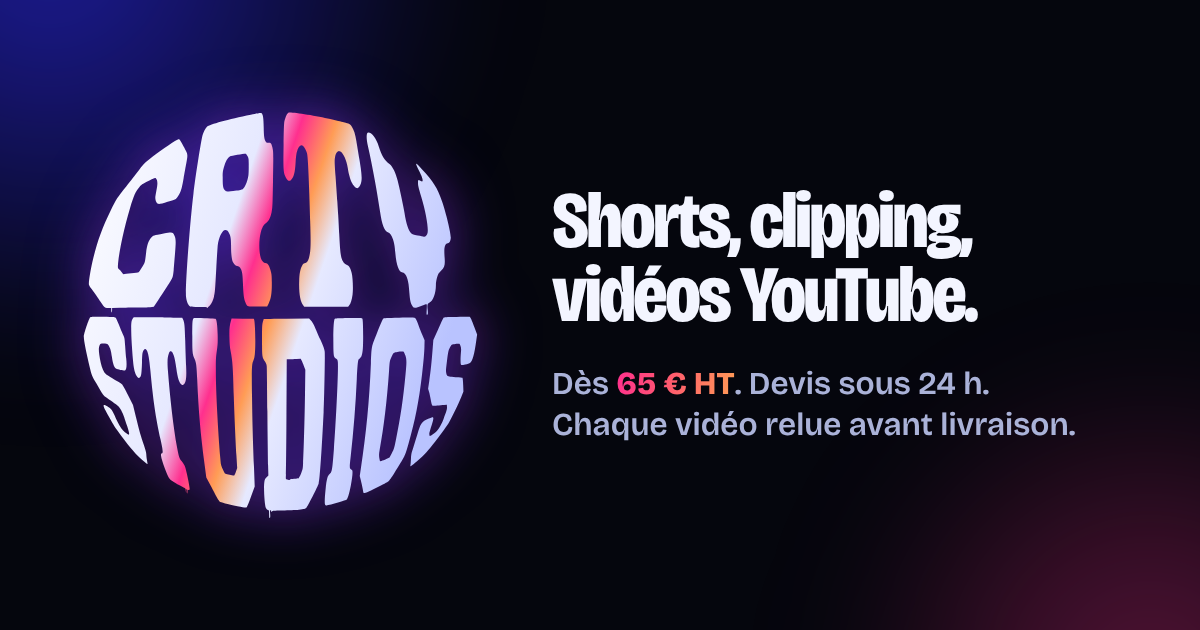
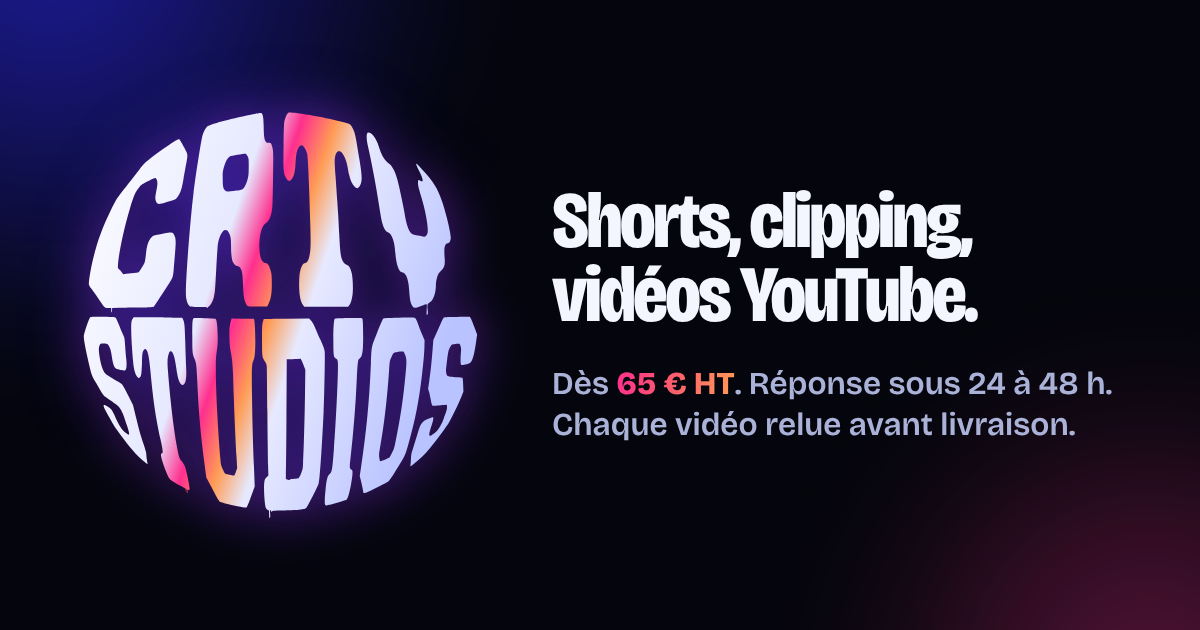
Retouches série 2 : offre graphisme, conditions de paiement, réponse sous 24 à 48 h
- Sur-titre « Offres », mention « tarif dégressif » retirée
- Sur mesure : Vidéo YouTube, Graphisme (logo, miniatures, photo, affiches, PLV, covers),
  Formats longs et tournages ; devis sous 48 h
- Bloc conditions : livrés clé en main, paiement selon l'offre, réponse sous 24 à 48 h
- Délai harmonisé sur tout le site, image de partage et formulaire

Claude-Session: https://claude.ai/code/session_012a9TszCkiZAstSt5BcjDuM

Changed region(s): [[0.6167, 0.573, 0.925, 0.6333]]

diff --git a/public/index.html b/public/index.html
@@ -4,7 +4,7 @@
 <meta charset="utf-8">
 <meta name="viewport" content="width=device-width, initial-scale=1, viewport-fit=cover">
 <title>CRTV Studios — Production vidéo pour créateurs, streamers et marques</title>
-<meta name="description" content="CRTV Studios produit vos shorts, clips de streams et vidéos YouTube. Offres jeunes créateurs dès 65 € HT, packs de clipping, projets sur mesure. Devis sous 24 h.">
+<meta name="description" content="CRTV Studios produit vos shorts, clips de streams et vidéos YouTube. Offres jeunes créateurs dès 65 € HT, packs de clipping, projets sur mesure. Réponse sous 24 à 48 h.">
 <meta name="theme-color" content="#05060d">
 <!-- TODO domaine : remplacer https://crtvstudios.fr par le domaine réservé (ici, sitemap.xml, robots.txt, pages légales) -->
 <link rel="canonical" href="https://crtvstudios.fr/">
@@ -14,7 +14,7 @@
 <meta property="og:site_name" content="CRTV Studios">
 <meta property="og:url" content="https://crtvstudios.fr/">
 <meta property="og:title" content="CRTV Studios — Production vidéo">
-<meta property="og:description" content="Shorts, clipping et vidéos YouTube. Dès 65 € HT, devis sous 24 h, chaque vidéo relue avant livraison.">
+<meta property="og:description" content="Shorts, clipping et vidéos YouTube. Dès 65 € HT, réponse sous 24 à 48 h, chaque vidéo relue avant livraison.">
 <meta property="og:image" content="https://crtvstudios.fr/assets/og-image.png">
 <meta property="og:image:width" content="1200">
 <meta property="og:image:height" content="630">
@@ -93,7 +93,7 @@
         </div>
         <ul class="facts">
           <li>Dès <strong>65&nbsp;€&nbsp;HT</strong></li>
-          <li>Devis sous <strong>24&nbsp;h</strong></li>
+          <li>Réponse sous <strong>24 à 48&nbsp;h</strong></li>
           <li>France, Suisse, Belgique</li>
         </ul>
       </div>
@@ -116,7 +116,7 @@
   <section class="offers" id="offres" aria-labelledby="offres-titre">
     <div class="wrap">
       <div class="sec-head reveal">
-        <p class="eyebrow">Offres et prix</p>
+        <p class="eyebrow">Offres</p>
         <h2 id="offres-titre">Nous nous adaptons à vous.</h2>
         <p>Nous proposons des offres adaptées aux jeunes créateurs et aux professionnels en développement, ainsi que des devis sur mesure pour des besoins précis et des projets d'envergure.</p>
       </div>
@@ -183,7 +183,7 @@
             <a class="choose" href="#devis" data-offre="clipping-15">Choisir Clipping 15 <span aria-hidden="true">→</span></a>
           </li>
           <li class="card featured reveal" data-d="1">
-            <span class="tag">30 clips · tarif dégressif</span>
+            <span class="tag">30 clips</span>
             <span class="name">Clipping 30</span>
             <span class="price fire-text">520&nbsp;€<span class="ht">HT</span></span>
             <ul class="incl">
@@ -201,7 +201,7 @@
       <div class="volet" id="sur-mesure">
         <div class="volet-head reveal">
           <div class="volet-title"><h3>Projets sur mesure</h3></div>
-          <p>Vidéos longues, collaborations publicitaires et contenus d'envergure. Un devis adapté à votre projet et à votre budget, sous 24&nbsp;h.</p>
+          <p>Formats longs, tournages et contenus d'envergure. Un devis adapté à votre projet et à votre budget, sous 48&nbsp;h.</p>
         </div>
         <ul class="cards c3">
           <li class="card reveal">
@@ -211,25 +211,29 @@
             <a class="choose" href="#devis" data-offre="youtube">Choisir Vidéo YouTube <span aria-hidden="true">→</span></a>
           </li>
           <li class="card reveal" data-d="1">
-            <span class="name">Collaboration publicitaire</span>
+            <span class="name">Graphisme</span>
             <span class="price fire-text">Sur devis</span>
-            <p class="desc">Film publicitaire court, clé en main, pour une marque ou un commerce.</p>
-            <a class="choose" href="#devis" data-offre="sur-mesure">Parler de votre projet <span aria-hidden="true">→</span></a>
+            <ul class="incl">
+              <li>Logo</li>
+              <li>Miniatures YouTube</li>
+              <li>Shooting photo</li>
+              <li>Affiches, PLV et covers</li>
+            </ul>
+            <a class="choose" href="#devis" data-offre="graphisme">Choisir Graphisme <span aria-hidden="true">→</span></a>
           </li>
           <li class="card reveal" data-d="2">
-            <span class="name">Contenus d'envergure</span>
+            <span class="name">Formats longs et tournages</span>
             <span class="price fire-text">Sur devis</span>
-            <p class="desc">Films, journées de tournage, contenus professionnels en format long ou court.</p>
+            <p class="desc">Films, journées de tournage, collaborations publicitaires et contenus professionnels d'envergure.</p>
             <a class="choose" href="#devis" data-offre="sur-mesure">Parler de votre projet <span aria-hidden="true">→</span></a>
           </li>
         </ul>
-        <p class="extra reveal"><strong>Photo, graphisme et logo</strong> : également sur devis.</p>
       </div>
 
       <div class="terms">
-        <div class="reveal"><strong>Paiement avant lancement</strong><p>Les offres 1 et 2 se règlent à la commande.</p></div>
-        <div class="reveal" data-d="1"><strong>Gros projets en deux fois</strong><p>50&nbsp;% à la commande, 50&nbsp;% à la livraison.</p></div>
-        <div class="reveal" data-d="2"><strong>Réponse sous 24&nbsp;h</strong><p>Pour chaque demande de devis.</p></div>
+        <div class="reveal"><strong>Projets livrés clé en main</strong><p>Vos vidéos arrivent prêtes à poster.</p></div>
+        <div class="reveal" data-d="1"><strong>Paiement simple</strong><p>Les offres jeunes créateurs et les packs de clipping se règlent à la commande. Les projets sur devis se règlent en deux temps : 50&nbsp;% à la commande, 50&nbsp;% à la livraison.</p></div>
+        <div class="reveal" data-d="2"><strong>Réponse sous 24 à 48&nbsp;h</strong><p>Pour chaque demande de devis.</p></div>
         <!-- EN ATTENTE DE VALIDATION (Lucas + comptable) : « Remboursement si la livraison ne vous convient pas. » -->
       </div>
     </div>
@@ -293,7 +297,7 @@
       </div>
       <ol class="steps" data-scroll>
         <li class="reveal"><span class="n">Étape 1</span><h3>Vous nous écrivez</h3><p>Par le formulaire ou en DM : votre besoin, vos références, le rythme de publication visé.</p></li>
-        <li class="reveal" data-d="1"><span class="n">Étape 2</span><h3>Devis sous 24&nbsp;h</h3><p>Un prix et un délai clairs. Vous validez, vous réglez, la commande démarre.</p></li>
+        <li class="reveal" data-d="1"><span class="n">Étape 2</span><h3>Devis sous 24 à 48&nbsp;h</h3><p>Un prix et un délai clairs. Vous validez, vous réglez, la commande démarre.</p></li>
         <li class="reveal" data-d="2"><span class="n">Étape 3</span><h3>Un monteur s'en charge</h3><p>Un monteur freelance de notre réseau, choisi pour votre style de contenu.</p></li>
         <li class="reveal" data-d="3"><span class="n">Étape 4</span><h3>Nous relisons, puis livrons</h3><p>Chaque vidéo est vérifiée par CRTV avant de vous être envoyée.</p></li>
       </ol>
@@ -309,7 +313,7 @@
       <div class="faq reveal">
         <details>
           <summary>Quand dois-je payer&nbsp;?</summary>
-          <p>Avant le lancement de la commande. Pour les gros projets, le paiement se fait en deux fois : 50&nbsp;% à la commande, 50&nbsp;% à la livraison.</p>
+          <p>Les offres jeunes créateurs et les packs de clipping se règlent à la commande. Les projets sur devis se règlent en deux temps : 50&nbsp;% à la commande, 50&nbsp;% à la livraison.</p>
         </details>
         <details>
           <summary>En combien de temps je reçois mes vidéos&nbsp;?</summary>
@@ -325,7 +329,7 @@
         </details>
         <details>
           <summary>Mon besoin ne rentre dans aucune offre.</summary>
-          <p>Choisissez « Projet sur mesure » dans le formulaire et décrivez votre projet. Nous vous répondons avec un devis adapté sous 24&nbsp;h.</p>
+          <p>Choisissez « Projet sur mesure » dans le formulaire et décrivez votre projet. Nous vous répondons avec un devis adapté sous 48&nbsp;h.</p>
         </details>
       </div>
     </div>
@@ -336,7 +340,7 @@
       <div class="reveal">
         <p class="eyebrow">Devis</p>
         <h2 id="devis-titre">Parlons de votre prochaine <span class="fire-text">vidéo</span>.</h2>
-        <p class="intro">Dites-nous ce que vous publiez aujourd'hui et ce que vous voulez publier demain. Réponse sous 24&nbsp;h.</p>
+        <p class="intro">Dites-nous ce que vous publiez aujourd'hui et ce que vous voulez publier demain. Réponse sous 24 à 48&nbsp;h.</p>
         <!-- TODO mail pro + Instagram : remplacer contact@crtvstudios.fr et l'URL Instagram -->
         <p class="alt">Vous préférez écrire directement&nbsp;? <a href="mailto:contact@crtvstudios.fr" data-cta="mail">contact@crtvstudios.fr</a> ou <a href="https://www.instagram.com/" rel="noopener" data-cta="instagram">en DM Instagram</a>.</p>
       </div>
@@ -373,7 +377,8 @@
               </optgroup>
               <optgroup label="Projets sur mesure">
                 <option value="youtube">Vidéo YouTube — dès 240 € HT</option>
-                <option value="sur-mesure">Projet sur mesure — sur devis</option>
+                <option value="graphisme">Graphisme (logo, miniatures, photo…) — sur devis</option>
+                <option value="sur-mesure">Formats longs, tournages — sur devis</option>
                 <option value="conseil">Je ne sais pas encore, conseillez-moi</option>
               </optgroup>
             </select>
@@ -420,7 +425,7 @@
 </footer>
 
 <div class="sticky-cta" id="sticky-cta" hidden>
-  <p>Devis<br>sous 24&nbsp;h</p>
+  <p>Réponse<br>24 à 48&nbsp;h</p>
   <a class="btn" href="#devis" data-cta="sticky">Demander un devis</a>
 </div>
 </body>

diff --git a/public/assets/site.js b/public/assets/site.js
@@ -286,7 +286,7 @@
     h.textContent = "Demande reçue.";
     h.tabIndex = -1;
     var p = document.createElement("p");
-    p.textContent = "Merci " + (data.nom || "") + ". Nous vous répondons sous 24 h à l'adresse " + (data.email || "indiquée") + ". Pensez à vérifier vos courriers indésirables.";
+    p.textContent = "Merci " + (data.nom || "") + ". Nous vous répondons sous 24 à 48 h à l'adresse " + (data.email || "indiquée") + ". Pensez à vérifier vos courriers indésirables.";
     var a = document.createElement("a");
     a.className = "btn ghost"; a.href = "#offres"; a.textContent = "Revoir les offres";
     box.appendChild(h); box.appendChild(p); box.appendChild(a);

diff --git a/functions/api/devis.js b/functions/api/devis.js
@@ -17,7 +17,8 @@ export const OFFRES = {
   "clipping-15": "Clipping 15 (350 € HT)",
   "clipping-30": "Clipping 30 (520 € HT)",
   "youtube": "Vidéo YouTube (dès 240 € HT)",
-  "sur-mesure": "Projet sur mesure (sur devis)",
+  "graphisme": "Graphisme : logo, miniatures, photo, affiches (sur devis)",
+  "sur-mesure": "Formats longs, tournages, contenus d'envergure (sur devis)",
   "conseil": "Ne sait pas encore, souhaite un conseil",
 };
 

diff --git a/public/merci.html b/public/merci.html
@@ -23,7 +23,7 @@
 </header>
 <main id="contenu" class="wrap doc">
   <h1>Demande reçue.</h1>
-  <p>Merci. Nous vous répondons sous 24&nbsp;h à l'adresse indiquée. Pensez à vérifier vos courriers indésirables.</p>
+  <p>Merci. Nous vous répondons sous 24 à 48&nbsp;h à l'adresse indiquée. Pensez à vérifier vos courriers indésirables.</p>
   <p><a class="btn" href="./">Retour au site</a></p>
 </main>
 <footer>

diff --git a/CLAUDE.md b/CLAUDE.md
@@ -26,7 +26,7 @@ Ce fichier résume toute la discussion de cadrage avec Neelsen (fondateur) pour 
 - Vidéo YouTube : Simple 240 €, Standard 400 €, Premium 640 € (environ 12 min, dérushage, étalonnage, sous-titres, mixage, motion design : détail à confirmer)
 - Projets sur mesure : sur devis (films, journées de tournage, collaborations publicitaires, contenus professionnels d'envergure)
 - Paiement : 100 % d'avance pour les packs et petites prestations, 50 % / 50 % pour les gros projets. Les fonds ne sont débloqués qu'après livraison et satisfaction du client, sinon remboursement.
-- Réponse aux devis sous 24 h.
+- Réponse aux demandes : sous 24 à 48 h (devis sur mesure : sous 48 h), décision de Neelsen du 17/11.
 
 ## Charte et ton
 - **v3 (16/11/2026), demandée par Neelsen : site sombre et animé, « devanture noire », style corporate type motion design.** Fond nuit (#05060d), blanc sur noir et blanc sur bleu (nuances de bleu nuit à bleu électrique #2f2bff), reflets et jeux de lumière, touche de couleur en dégradé fuchsia #ff2f8e → abricot #ff9c55 sur le logo, les prix et les survols. Cette demande remplace l'ancienne règle « pas d'animations décoratives » ; `prefers-reduced-motion` coupe toujours tout mouvement.
@@ -50,6 +50,7 @@ Ce fichier résume toute la discussion de cadrage avec Neelsen (fondateur) pour 
 - v1 importée (commit d'origine), refonte v2 (claire), puis v3 sombre et animée (16/11), reconstruite de zéro sur la même base technique.
 - **v3 validée par Neelsen le 16/11** : direction retenue. Reste des retouches de textes et d'effets, à faire au fil de ses retours, sans changer de direction.
 - Retouches du 16/11 (série 1) : logo volant plus fluide (amorti du défilement, reflet animé par transform, plus de filtre pendant le vol) ; ligne « Production audiovisuelle » retirée du hero ; bandeau défilant entièrement en blanc ; nouveau manifeste ; titre des offres « Nous nous adaptons à vous. » + nouvelle description ; mentions « Offre 1/2/3 » retirées ; logos Instagram, TikTok, YouTube Shorts flottants à côté de « Jeunes créateurs », + Twitch à côté de « Packs de clipping » (icônes Simple Icons, licence CC0) ; petits titres (sur-titres, étiquettes, étapes) en Nunito arrondie auto-hébergée.
+- Retouches du 17/11 (série 2) : sur-titre « Offres » (au lieu de « Offres et prix ») ; mention « tarif dégressif » retirée du Clipping 30 ; projets sur mesure = formats longs, tournages et contenus d'envergure, devis sous 48 h ; cartes sur mesure : Vidéo YouTube (dès 240 €), Graphisme (logo, miniatures YouTube, shooting photo, affiches, PLV, covers — sur devis, nouvelle option « graphisme » dans le formulaire et la fonction), Formats longs et tournages (sur devis) ; ligne « photo, graphisme et logo » retirée ; bloc conditions : « Projets livrés clé en main », « Paiement simple » (jeunes créateurs + clipping à la commande, sur devis en deux temps 50/50), « Réponse sous 24 à 48 h ». Délai de réponse harmonisé à « 24 à 48 h » partout (hero, méthode, contact, barre mobile, confirmation, image de partage) ; sur mesure : 48 h.
 - En attente de confirmation : Neelsen a proposé « des centaines de professionnels qualifiés » dans le manifeste ; le business plan indique 2 monteurs aujourd'hui. Version publiée provisoire : « un réseau de professionnels qualifiés ».
 - Structure : `public/` = tout ce qui est publié ; `functions/api/devis.js` = fonction serveur du formulaire (Cloudflare Pages) ; `tests/` (`npm test`) ; `scripts/` (aperçu local, compression vidéo) ; `sources/` (logos d'origine, non publiés).
 - Page d'accueil : index des prix dans le premier écran, grille de prix en grande typo (pièce forte) qui présélectionne l'offre dans le formulaire, bandeau streamers GTA 6, réalisations (emplacements vidéo prêts), méthode en 4 étapes, FAQ, formulaire de devis, barre d'action fixe sur mobile (apparaît après le premier écran, disparaît sur le formulaire).
